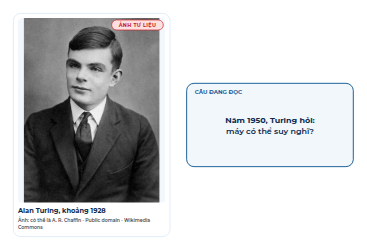
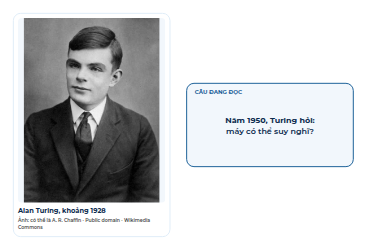
PhotoCard: bỏ nhãn "ẢNH TƯ LIỆU" — nhìn ảnh đã biết là ảnh tư liệu

Changed region(s): [[0.2997, 0.056, 0.4496, 0.14]]

diff --git a/vinuni-lesson-video-ds/components/media/PhotoCard.jsx b/vinuni-lesson-video-ds/components/media/PhotoCard.jsx
@@ -3,7 +3,6 @@ import { C } from '../../lib/tokens.js';
 import { textWidth } from '../../lib/geometry.js';
 import { dsUrl } from '../../lib/assets.js';
 import { SvgText } from '../text/Text.jsx';
-import { IllustrativeStamp } from '../labels/IllustrativeStamp.jsx';
 
 const PAD = 14; //          white mat between the card edge and the picture
 const CAPTION = 20; //      caption 20/700
@@ -38,8 +37,8 @@ const ALIGN = (v) => (v < 1 / 3 ? 'Min' : v > 2 / 3 ? 'Max' : 'Mid');
  * real object, a paper figure shown as published. Anatomy: white card (radius 22, 3 px dotInactive
  * stroke) · the picture on a 14 px white mat, clipped to radius 12, on a bgAlt field (visible where
  * `contain` letterboxes) · optional caption 20/700 · the credit line 14/600 muted, word-wrapped and never
- * cut (a long one takes room from the picture) — always drawn, the card is not allowed without one · optional tag pill top-right
- * ("ẢNH TƯ LIỆU"). `fit` 'contain' (default) never crops the subject; 'cover' fills the frame and keeps
+ * cut (a long one takes room from the picture) — always drawn, the card is not allowed without one. No
+ * "ẢNH TƯ LIỆU" label: the picture says so itself. `fit` 'contain' (default) never crops the subject; 'cover' fills the frame and keeps
  * `focus` in view — pass `imgW`/`imgH` (from images.js) for an exact focus, otherwise it snaps to
  * min/mid/max. `kenBurns` 0–1 is a slow zoom (≤ 6 %) toward `focus`, driven by the scene. The picture
  * is never filtered, tinted or given a fake-vintage frame. Static apart from `kenBurns` / `opacity`.
@@ -58,7 +57,6 @@ export function PhotoCard({
   imgW,
   imgH,
   kenBurns = 0,
-  tag,
   opacity = 1,
 }) {
   const clipId = `pc${useId().replace(/[^a-zA-Z0-9]/g, '')}`;
@@ -115,7 +113,6 @@ export function PhotoCard({
           {ln}
         </SvgText>
       ))}
-      {tag ? <IllustrativeStamp x={x + w - PAD - 6} y={y + PAD + 6} label={typeof tag === 'string' ? tag : 'ẢNH TƯ LIỆU'} anchor="top-right" size={15} /> : null}
     </g>
   );
 }

diff --git a/vinuni-lesson-video-ds/components/media/card.html b/vinuni-lesson-video-ds/components/media/card.html
@@ -22,7 +22,7 @@
     width: 1400, height: 600, duration: 240,
     render: function (f) {
       return h(VK.Fragment, null,
-        h(VK.PhotoCard, { x: 40, y: 30, w: 400, h: 540, src: SRC, imgW: 480, imgH: 654, caption: 'Alan Turing, khoảng 1928', credit: CREDIT, tag: true }),
+        h(VK.PhotoCard, { x: 40, y: 30, w: 400, h: 540, src: SRC, imgW: 480, imgH: 654, caption: 'Alan Turing, khoảng 1928', credit: CREDIT }),
         h(VK.PhotoCard, { x: 480, y: 30, w: 460, h: 300, src: SRC, imgW: 480, imgH: 654, fit: 'cover', focus: [0.5, 0.3], kenBurns: VK.linearProgress(f, 0, 240), credit: CREDIT }),
         h(VK.SvgText, { x: 710, y: 372, size: 19, weight: 600, color: C.textMuted }, "fit='cover' · focus [0.5, 0.3] · kenBurns"),
         h(VK.Card, { x: 980, y: 30, w: 380, h: 300, label: 'CÂU ĐANG ĐỌC', lines: ['Năm 1950, Turing đặt', 'câu hỏi: máy có thể', 'suy nghĩ không?'] }),

diff --git a/vinuni-lesson-video-ds/components/media/PhotoCard.d.ts b/vinuni-lesson-video-ds/components/media/PhotoCard.d.ts
@@ -22,8 +22,6 @@ export interface PhotoCardProps {
   imgH?: number;
   /** 0–1 progress of a slow zoom (at most 6 %) toward `focus`. Default 0. */
   kenBurns?: number;
-  /** Pill top-right: true → "ẢNH TƯ LIỆU", or a label. Default none. */
-  tag?: boolean | string;
   opacity?: number;
 }
 export declare const PhotoCard: FC<PhotoCardProps>;

diff --git a/vinuni-lesson-video-ds/components/media/PhotoCard.prompt.md b/vinuni-lesson-video-ds/components/media/PhotoCard.prompt.md
@@ -11,7 +11,8 @@ comparison, a loop) — animation stays the default. A slot of kind `reference` 
 PhotoCard: Read the picture and redraw the idea with components.
 
 Anatomy: white card (radius 22, 3 px dotInactive) · picture on a 14 px mat, radius 12, bgAlt field
-behind `contain` letterboxing · caption 20/700 · credit 14/600 muted, wrapped, never cut · optional tag.
+behind `contain` letterboxing · caption 20/700 · credit 14/600 muted, wrapped, never cut. No "ẢNH TƯ LIỆU" / MINH HỌA label on
+or beside the picture — a real photo reads as one.
 
 ```jsx
 import { IMAGES } from './images.js';
